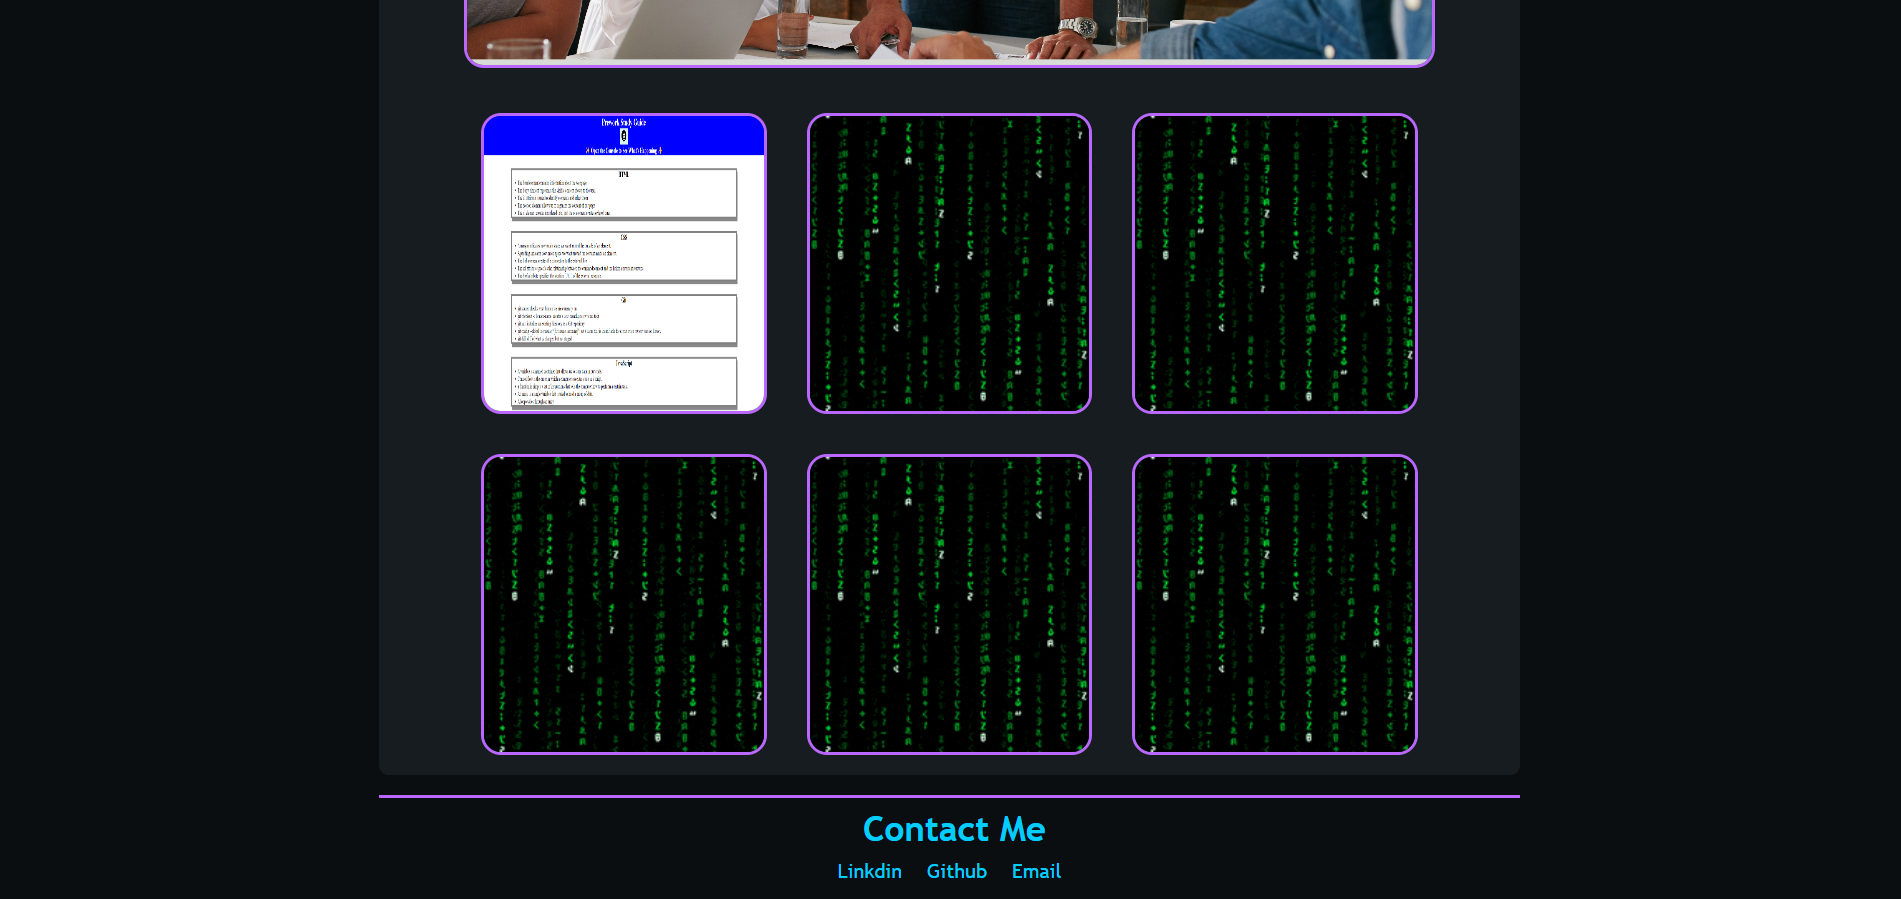
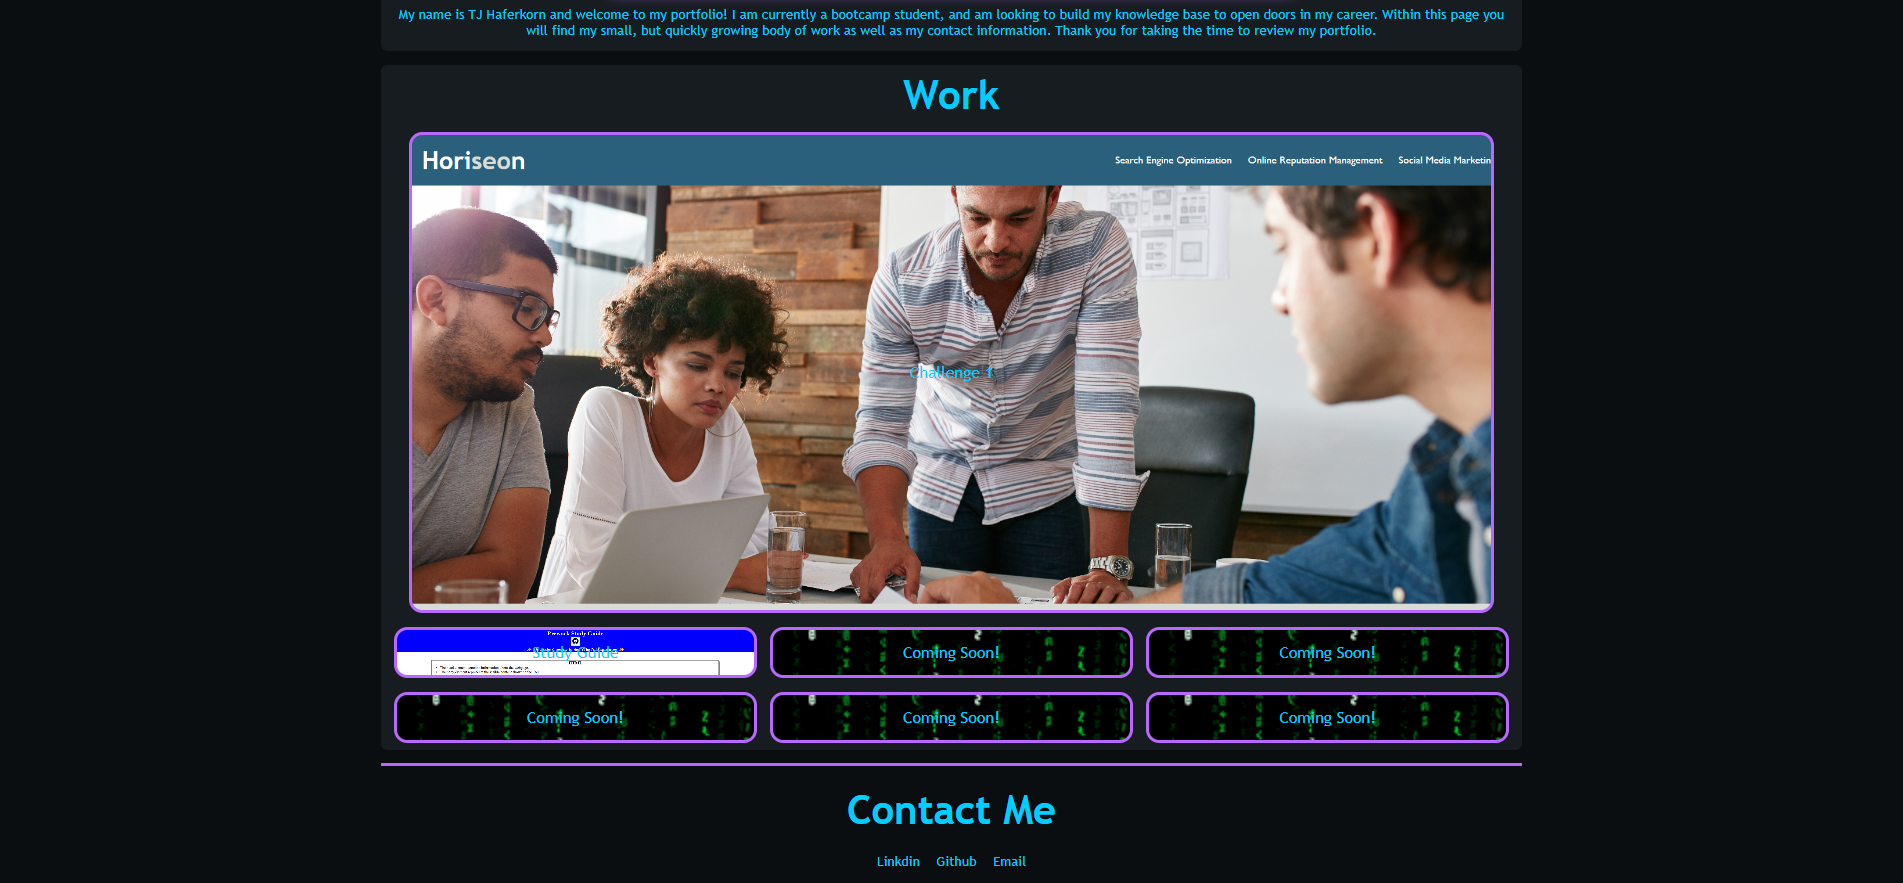
Final Commit

diff --git a/assets/css/style.css b/assets/css/style.css
@@ -1,0 +1,185 @@
+/* Creates variable for the theme colors */
+:root {
+    --border: #b967ff;
+    --highlight: #fffb96;
+    --text: #01cdfe;
+    --background: #161c20;
+}
+
+/* Applies base styling to all page */
+* {
+    box-sizing: border-box;
+    padding: 0;
+    margin: 0;
+    color: var(--text);
+    font-family: 'Trebuchet MS', 'Lucida Sans Unicode', 'Lucida Grande', 'Lucida Sans', Arial, sans-serif;
+    list-style-type: none;
+}
+
+/* Provides page backroung color */
+html {
+    background-color: #0b0e10;
+}
+
+/* Sets styling for page title and navigation links */
+header {
+    text-align: center;
+    padding: 20px;
+    border-bottom: solid;
+    border-color: var(--border);
+    margin-left: 20%;
+    margin-right: 20%;
+}
+
+nav {
+    padding-top: 10px;
+}
+
+nav ul li {
+    font-size: 20px;
+    display: inline-block;
+    margin-left: 10px;
+    margin-right: 10px;
+}
+
+a {
+    text-decoration: none;
+}
+
+/* Sets base styling for About Me and Work sections */
+section {
+    margin: 20px 20% 20px 20%;
+    background-color: var(--background);
+    border-radius: 10px;
+}
+
+/* Styling for the titles of each section and footer */
+h2 {
+    color: var(--text);
+    text-align: center;
+    padding-top: 10px;
+    margin: 20px;
+}
+
+/* Styling for main avatar */
+.me {
+    display: block;
+    margin-right: auto;
+    margin-left: auto;
+    margin-top: 10px;
+    border-style: solid;
+    border-color: var(--border);
+    width: 60%;
+    height: auto;
+    box-shadow: 0 0 20px var(--border);
+    border-radius: 10px;
+}
+
+p {
+    font-size: 20px;
+    text-align: center;
+    padding: 20px;
+}
+
+/* Applies styling to main application card */
+.challenge1 {
+    display: block;
+    margin: auto;
+    padding: 20% 0 20% 0;
+    width: 95%;
+    height: auto;
+    background-size: cover;
+    text-align: center;
+    font-size: 150%;
+    border-style: solid;
+    border-color: var(--border);
+    border-radius: 20px;
+    background-image: url(Screenshot_1.png);
+}
+
+/* Creates glow effect when hovering on main application */
+.challenge1:hover {
+    box-shadow: 0 0 20px var(--border);
+}
+
+/* Creates a grid to house secondary application cards */
+.grid-container {
+    display: grid;
+    grid-gap: 20px;
+    padding: 10px;
+    margin: 10px;
+}
+
+/* Creates grid layout for secondary applications */
+.grid-container a {
+    background-size: cover;
+    text-align: center;
+    padding: 20px 0;
+    font-size: 150%;
+    border-style: solid;
+    border-color: var(--border);
+    border-radius: 20px;
+}
+
+/* Creates glow effect when hovering on secondary applications */
+.grid-container a:hover {
+    box-shadow: 0 0 20px var(--border);
+}
+
+/* Applies background images to secondary application cards */
+.study-guide {
+    background-image: url(Screenshot_3.png);
+}
+
+.coming-soon {
+    background-image: url(code-rain.gif);
+}
+
+/* Sets styling for Contact Me section and navigation links */
+footer {
+    text-align: center;
+    padding: 0 20px 20px 20px;
+    border-top: solid;
+    border-color: var(--border);
+    margin-left: 20%;
+    margin-right: 20%;
+}
+
+/* Updates secondary application card and titles to respond to screen size */
+@media (min-width: 320px) {
+    .grid-container {grid-template-columns: repeat(1, 1fr);}
+
+    h2 {
+        font-size: 30px;
+    }
+
+    h1 {
+        font-size: 38px;
+    }
+}
+
+@media (min-width: 768px) {
+    .grid-container {grid-template-columns: repeat(2, 1fr);}
+
+    h2 {
+        font-size: 40px;
+    }
+
+    h1 {
+        font-size: 60px;
+    }
+}
+
+@media (min-width: 1200px) {
+    .grid-container {grid-template-columns: repeat(3, 1fr);}
+
+    h2 {
+        font-size: 60px;
+    }
+
+    h1 {
+        font-size: 80px;
+    }
+}
+
+

diff --git a/index.html b/index.html
@@ -5,7 +5,7 @@
     <meta charset="UTF-8">
     <meta http-equiv="X-UA-Compatible" content="IE=edge">
     <meta name="viewport" content="width=device-width, initial-scale=1.0">
-    <link rel="stylesheet" href="assets\style.css">
+    <link rel="stylesheet" href="assets\css\style.css">
     <title>TJ's Portfolio</title>
 </head>
 
@@ -38,15 +38,15 @@
         
         <section>
             <h2 id="work">Work</h2>
-            <a class="challenge1" href="https://thafer1.github.io/Challenge1/"><img class="img-1" src="assets\images\Screenshot 1.png" alt=""></a>
-            <article class="work">
-                <img class="card"src="assets\images\Screenshot_3.png" alt="">
-                <img class="card"src="assets\images\code-rain.gif" alt="">
-                <img class="card"src="assets\images\code-rain.gif" alt="">
-                <img class="card"src="assets\images\code-rain.gif" alt="">
-                <img class="card"src="assets\images\code-rain.gif" alt="">
-                <img class="card"src="assets\images\code-rain.gif" alt="">
-            </article>
+            <a class="challenge1" href="https://thafer1.github.io/Challenge1/">Challenge 1</a>
+            <div class="grid-container">
+                <a class="study-guide" href="https://thafer1.github.io/prework-study-guide/"><div>Study Guide</div></a>
+                <a class="coming-soon" href="https://github.com/thafer1"><div>Coming Soon!</div></a>
+                <a class="coming-soon" href="https://github.com/thafer1"><div>Coming Soon!</div></a>
+                <a class="coming-soon" href="https://github.com/thafer1"><div>Coming Soon!</div></a>
+                <a class="coming-soon" href="https://github.com/thafer1"><div>Coming Soon!</div></a>
+                <a class="coming-soon" href="https://github.com/thafer1"><div>Coming Soon!</div></a>
+            </div>
         </section>
     </main>
 
@@ -54,9 +54,9 @@
         <h2 id="contact-me">Contact Me</h2>
         <nav>
             <ul>
-                <li><a href="">Linkdin</a></li>
+                <li><a href="https://www.linkedin.com/in/tj-haferkorn-90bb1421a/">Linkdin</a></li>
                 <li><a href="https://github.com/thafer1">Github</li></a>
-                <li><a href=""></a>Email</li>
+                <li><a href="#Email"></a>Email</li>
             </ul>
         </nav>
     </footer>

diff --git a/README.md b/README.md
@@ -2,7 +2,7 @@
 
 ## Description
 
-As a bootcamp student hopeful to break into a career in web development it is necessary to have a portfolio. This is an important tool that will allow me to present myself and my body of work to other devs or prospevtive employers.
+As a bootcamp student hopeful to break into a career in web development it is necessary to have a portfolio. This is an important tool that will allow me to present myself and my body of work to other devs or prospective employers.
 
 ## Usage
 
